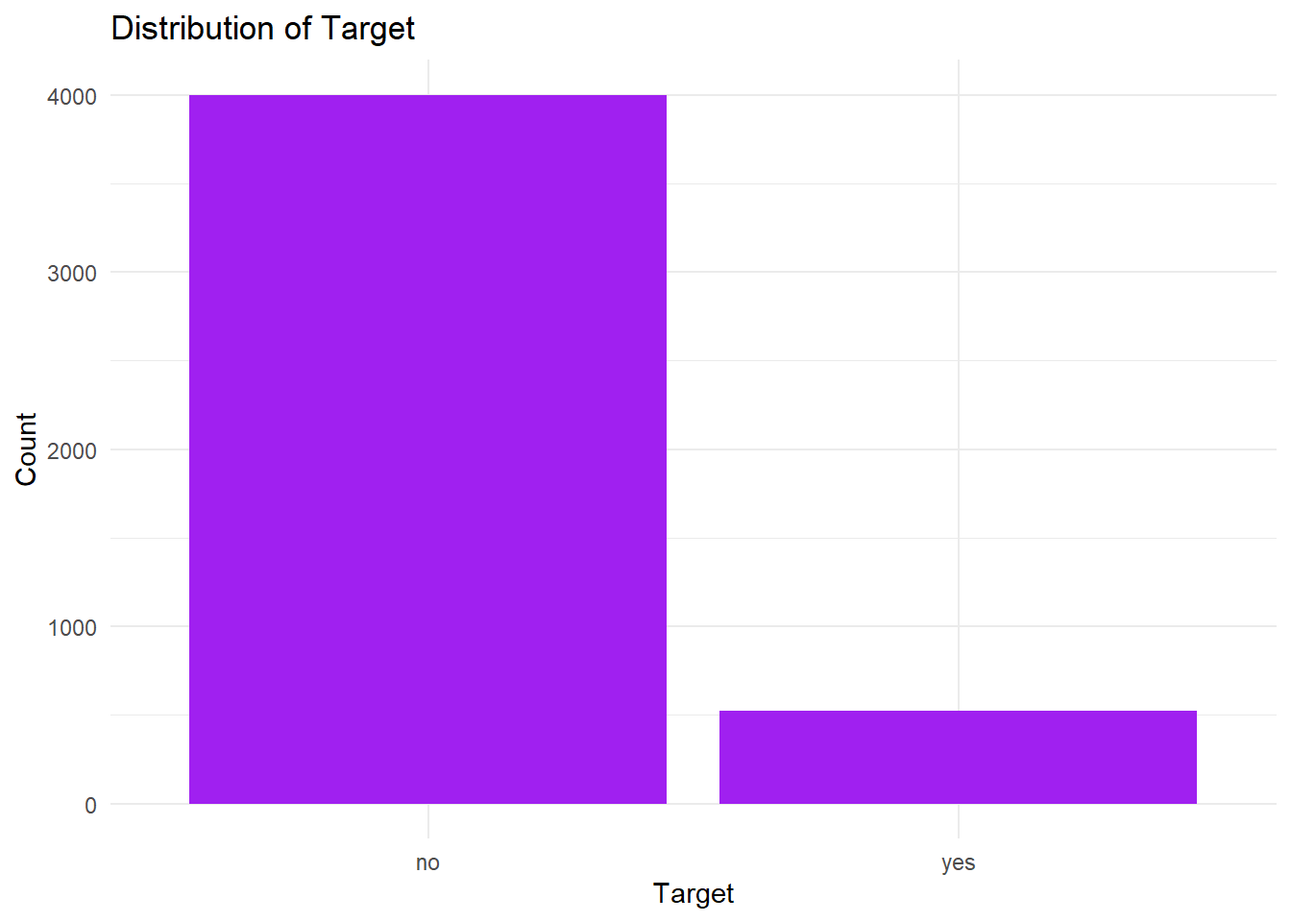
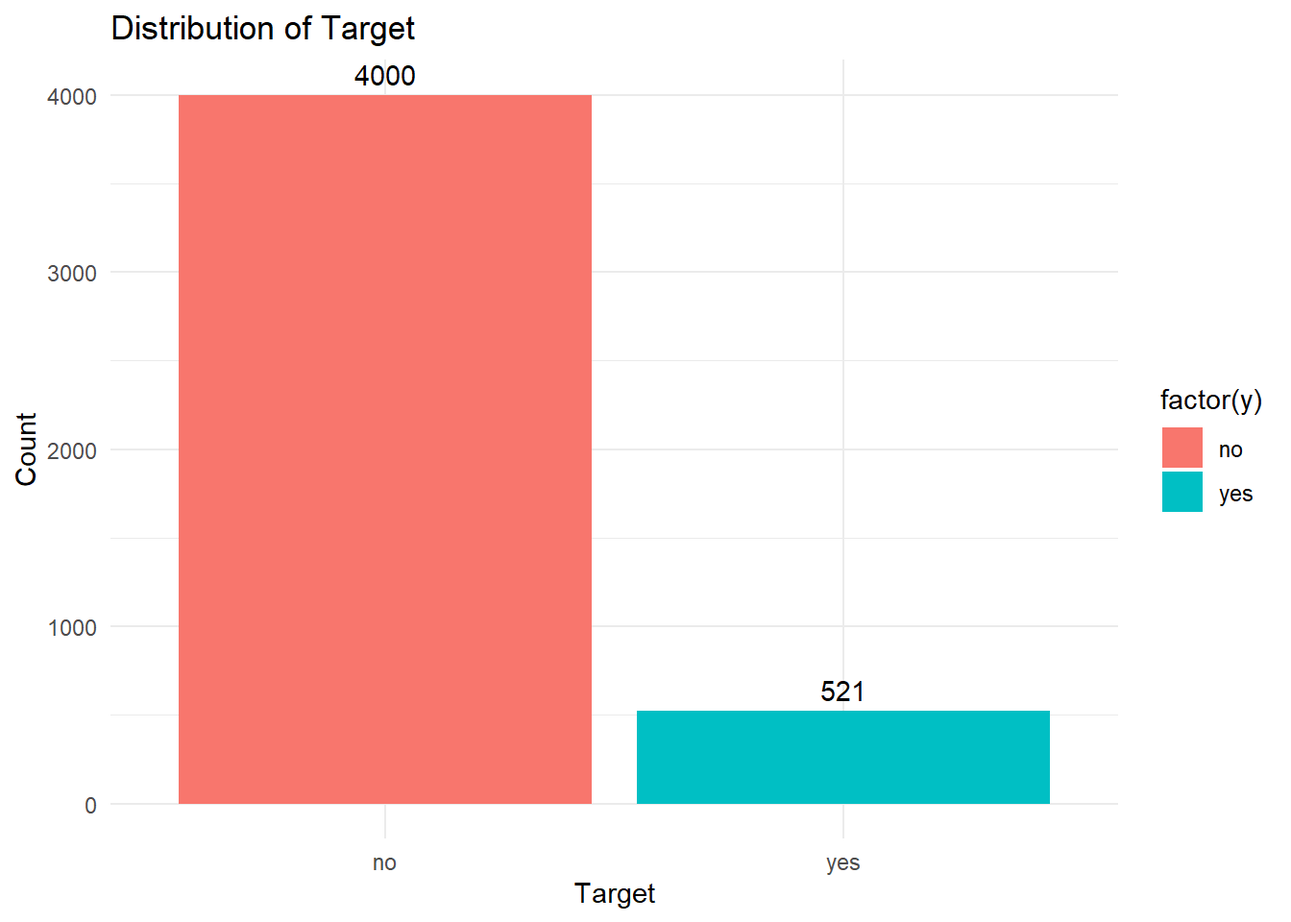
Updates

diff --git a/docs/portfolio/bank_marketing/index.html b/docs/portfolio/bank_marketing/index.html
@@ -310,10 +310,12 @@ gtag('config', 'G-LC5NNGZ782', { 'anonymize_ip': true});
 <span id="cb9-17"><a href="#cb9-17" aria-hidden="true" tabindex="-1"></a>data<span class="sc">$</span>y <span class="ot">&lt;-</span> <span class="fu">as.factor</span>(data<span class="sc">$</span>y)</span>
 <span id="cb9-18"><a href="#cb9-18" aria-hidden="true" tabindex="-1"></a></span>
 <span id="cb9-19"><a href="#cb9-19" aria-hidden="true" tabindex="-1"></a><span class="co"># Check the distribution of the outcome y</span></span>
-<span id="cb9-20"><a href="#cb9-20" aria-hidden="true" tabindex="-1"></a><span class="fu">ggplot</span>(data, <span class="fu">aes</span>(<span class="at">x =</span> <span class="fu">factor</span>(y))) <span class="sc">+</span></span>
-<span id="cb9-21"><a href="#cb9-21" aria-hidden="true" tabindex="-1"></a>  <span class="fu">geom_bar</span>(<span class="at">fill =</span> <span class="st">"purple"</span>) <span class="sc">+</span></span>
-<span id="cb9-22"><a href="#cb9-22" aria-hidden="true" tabindex="-1"></a>  <span class="fu">labs</span>(<span class="at">x =</span> <span class="st">"Target"</span>, <span class="at">y =</span> <span class="st">"Count"</span>, <span class="at">title =</span> <span class="st">"Distribution of Target"</span>) <span class="sc">+</span></span>
-<span id="cb9-23"><a href="#cb9-23" aria-hidden="true" tabindex="-1"></a>  <span class="fu">theme_minimal</span>()</span></code><button title="Copy to Clipboard" class="code-copy-button"><i class="bi"></i></button></pre></div>
+<span id="cb9-20"><a href="#cb9-20" aria-hidden="true" tabindex="-1"></a><span class="fu">ggplot</span>(data, <span class="fu">aes</span>(<span class="at">x =</span> <span class="fu">factor</span>(y), <span class="at">fill =</span> <span class="fu">factor</span>(y))) <span class="sc">+</span></span>
+<span id="cb9-21"><a href="#cb9-21" aria-hidden="true" tabindex="-1"></a>  <span class="fu">geom_bar</span>() <span class="sc">+</span></span>
+<span id="cb9-22"><a href="#cb9-22" aria-hidden="true" tabindex="-1"></a>  <span class="co">#geom_bar(fill = "purple") +</span></span>
+<span id="cb9-23"><a href="#cb9-23" aria-hidden="true" tabindex="-1"></a>  <span class="fu">geom_text</span>(<span class="at">stat =</span> <span class="st">"count"</span>, <span class="fu">aes</span>(<span class="at">label =</span> ..count..), <span class="at">vjust =</span> <span class="sc">-</span><span class="fl">0.5</span>)<span class="sc">+</span></span>
+<span id="cb9-24"><a href="#cb9-24" aria-hidden="true" tabindex="-1"></a>  <span class="fu">labs</span>(<span class="at">x =</span> <span class="st">"Target"</span>, <span class="at">y =</span> <span class="st">"Count"</span>, <span class="at">title =</span> <span class="st">"Distribution of Target"</span>) <span class="sc">+</span></span>
+<span id="cb9-25"><a href="#cb9-25" aria-hidden="true" tabindex="-1"></a>  <span class="fu">theme_minimal</span>()</span></code><button title="Copy to Clipboard" class="code-copy-button"><i class="bi"></i></button></pre></div>
 <div class="cell-output-display">
 <div>
 <figure class="figure">
@@ -557,29 +559,79 @@ Prediction   no  yes
 <span id="cb24-2"><a href="#cb24-2" aria-hidden="true" tabindex="-1"></a>cm_list<span class="sc">$</span>neural_network <span class="ot">&lt;-</span> <span class="fu">confusionMatrix</span>(data_test<span class="sc">$</span>y, <span class="fu">as.factor</span>(y_pred_nnet))</span></code><button title="Copy to Clipboard" class="code-copy-button"><i class="bi"></i></button></pre></div>
 </div>
 <div style="text-align: justify">
+<p>The accuracy is close to 89.61% which is not bad. Next we will try support vector classification method.</p>
+</div>
+<div class="cell">
+<div class="sourceCode cell-code" id="cb25"><pre class="sourceCode r code-with-copy"><code class="sourceCode r"><span id="cb25-1"><a href="#cb25-1" aria-hidden="true" tabindex="-1"></a><span class="co"># support vector classifier </span></span>
+<span id="cb25-2"><a href="#cb25-2" aria-hidden="true" tabindex="-1"></a>model_svc <span class="ot">&lt;-</span> <span class="fu">svm</span>(y <span class="sc">~</span> .,</span>
+<span id="cb25-3"><a href="#cb25-3" aria-hidden="true" tabindex="-1"></a>                 <span class="at">data =</span> data_train,</span>
+<span id="cb25-4"><a href="#cb25-4" aria-hidden="true" tabindex="-1"></a>                 <span class="co"># kernel = "linear",  # or "radial", "polynomial", "sigmoid"</span></span>
+<span id="cb25-5"><a href="#cb25-5" aria-hidden="true" tabindex="-1"></a>                 <span class="at">kernel =</span> <span class="st">"sigmoid"</span>,  <span class="co"># or "radial", "polynomial", "sigmoid"</span></span>
+<span id="cb25-6"><a href="#cb25-6" aria-hidden="true" tabindex="-1"></a>                 <span class="at">cost =</span> <span class="dv">1</span>,           <span class="co"># regularization parameter </span></span>
+<span id="cb25-7"><a href="#cb25-7" aria-hidden="true" tabindex="-1"></a>                 <span class="at">scale =</span> <span class="cn">FALSE</span>)</span>
+<span id="cb25-8"><a href="#cb25-8" aria-hidden="true" tabindex="-1"></a></span>
+<span id="cb25-9"><a href="#cb25-9" aria-hidden="true" tabindex="-1"></a><span class="co"># Predictions</span></span>
+<span id="cb25-10"><a href="#cb25-10" aria-hidden="true" tabindex="-1"></a>y_pred_svc <span class="ot">&lt;-</span> <span class="fu">predict</span>(model_svc,</span>
+<span id="cb25-11"><a href="#cb25-11" aria-hidden="true" tabindex="-1"></a>                        data_test)</span>
+<span id="cb25-12"><a href="#cb25-12" aria-hidden="true" tabindex="-1"></a></span>
+<span id="cb25-13"><a href="#cb25-13" aria-hidden="true" tabindex="-1"></a><span class="co"># Confusion Matrix</span></span>
+<span id="cb25-14"><a href="#cb25-14" aria-hidden="true" tabindex="-1"></a><span class="fu">confusionMatrix</span>(data_test<span class="sc">$</span>y, <span class="fu">as.factor</span>(y_pred_svc))</span></code><button title="Copy to Clipboard" class="code-copy-button"><i class="bi"></i></button></pre></div>
+<div class="cell-output cell-output-stdout">
+<pre><code>Confusion Matrix and Statistics
+
+          Reference
+Prediction   no  yes
+       no  1017  176
+       yes  147   17
+                                          
+               Accuracy : 0.762           
+                 95% CI : (0.7384, 0.7844)
+    No Information Rate : 0.8578          
+    P-Value [Acc &gt; NIR] : 1.0000          
+                                          
+                  Kappa : -0.0408         
+                                          
+ Mcnemar's Test P-Value : 0.1192          
+                                          
+            Sensitivity : 0.87371         
+            Specificity : 0.08808         
+         Pos Pred Value : 0.85247         
+         Neg Pred Value : 0.10366         
+             Prevalence : 0.85777         
+         Detection Rate : 0.74945         
+   Detection Prevalence : 0.87915         
+      Balanced Accuracy : 0.48090         
+                                          
+       'Positive' Class : no              
+                                          </code></pre>
+</div>
+<div class="sourceCode cell-code" id="cb27"><pre class="sourceCode r code-with-copy"><code class="sourceCode r"><span id="cb27-1"><a href="#cb27-1" aria-hidden="true" tabindex="-1"></a><span class="co"># Confusion Matrix data frame</span></span>
+<span id="cb27-2"><a href="#cb27-2" aria-hidden="true" tabindex="-1"></a>cm_list<span class="sc">$</span>smote_support_vector_classifier <span class="ot">&lt;-</span> <span class="fu">confusionMatrix</span>(data_test<span class="sc">$</span>y, <span class="fu">as.factor</span>(y_pred_svc))</span></code><button title="Copy to Clipboard" class="code-copy-button"><i class="bi"></i></button></pre></div>
+</div>
+<div style="text-align: justify">
 <p>The accuracy is close to 89.61% which is not bad. Next we will try some method to deal with imbalanced dataset using the SMOTE (Synthetic Minority Oversampling Technique) method which tries to balance the classes by oversampling from the minority classes. We will try to run all the models based on the over sampled data and compare them.</p>
 </div>
 <div class="cell">
-<div class="sourceCode cell-code" id="cb25"><pre class="sourceCode r code-with-copy"><code class="sourceCode r"><span id="cb25-1"><a href="#cb25-1" aria-hidden="true" tabindex="-1"></a><span class="co"># SMOTE method</span></span>
-<span id="cb25-2"><a href="#cb25-2" aria-hidden="true" tabindex="-1"></a><span class="fu">library</span>(ROSE)</span>
-<span id="cb25-3"><a href="#cb25-3" aria-hidden="true" tabindex="-1"></a></span>
-<span id="cb25-4"><a href="#cb25-4" aria-hidden="true" tabindex="-1"></a>data_train2 <span class="ot">&lt;-</span> <span class="fu">ovun.sample</span>(y <span class="sc">~</span> ., </span>
-<span id="cb25-5"><a href="#cb25-5" aria-hidden="true" tabindex="-1"></a>                           <span class="at">data =</span> data_train,</span>
-<span id="cb25-6"><a href="#cb25-6" aria-hidden="true" tabindex="-1"></a>                           <span class="at">method =</span> <span class="st">"over"</span>, </span>
-<span id="cb25-7"><a href="#cb25-7" aria-hidden="true" tabindex="-1"></a>                           <span class="at">N =</span> (<span class="fu">nrow</span>(data_train)<span class="sc">*</span><span class="dv">3</span>))<span class="sc">$</span>data</span></code><button title="Copy to Clipboard" class="code-copy-button"><i class="bi"></i></button></pre></div>
+<div class="sourceCode cell-code" id="cb28"><pre class="sourceCode r code-with-copy"><code class="sourceCode r"><span id="cb28-1"><a href="#cb28-1" aria-hidden="true" tabindex="-1"></a><span class="co"># SMOTE method</span></span>
+<span id="cb28-2"><a href="#cb28-2" aria-hidden="true" tabindex="-1"></a><span class="fu">library</span>(ROSE)</span>
+<span id="cb28-3"><a href="#cb28-3" aria-hidden="true" tabindex="-1"></a></span>
+<span id="cb28-4"><a href="#cb28-4" aria-hidden="true" tabindex="-1"></a>data_train2 <span class="ot">&lt;-</span> <span class="fu">ovun.sample</span>(y <span class="sc">~</span> ., </span>
+<span id="cb28-5"><a href="#cb28-5" aria-hidden="true" tabindex="-1"></a>                           <span class="at">data =</span> data_train,</span>
+<span id="cb28-6"><a href="#cb28-6" aria-hidden="true" tabindex="-1"></a>                           <span class="at">method =</span> <span class="st">"over"</span>, </span>
+<span id="cb28-7"><a href="#cb28-7" aria-hidden="true" tabindex="-1"></a>                           <span class="at">N =</span> (<span class="fu">nrow</span>(data_train)<span class="sc">*</span><span class="dv">3</span>))<span class="sc">$</span>data</span></code><button title="Copy to Clipboard" class="code-copy-button"><i class="bi"></i></button></pre></div>
 </div>
 <div class="cell">
-<div class="sourceCode cell-code" id="cb26"><pre class="sourceCode r code-with-copy"><code class="sourceCode r"><span id="cb26-1"><a href="#cb26-1" aria-hidden="true" tabindex="-1"></a><span class="co"># Logistic regression</span></span>
-<span id="cb26-2"><a href="#cb26-2" aria-hidden="true" tabindex="-1"></a>model2 <span class="ot">&lt;-</span> <span class="fu">glm</span>(y <span class="sc">~</span> ., <span class="at">data =</span> data_train2, <span class="at">family =</span> <span class="fu">binomial</span>())</span>
-<span id="cb26-3"><a href="#cb26-3" aria-hidden="true" tabindex="-1"></a></span>
-<span id="cb26-4"><a href="#cb26-4" aria-hidden="true" tabindex="-1"></a><span class="co"># Predicted probability</span></span>
-<span id="cb26-5"><a href="#cb26-5" aria-hidden="true" tabindex="-1"></a>y_pred_prob2 <span class="ot">&lt;-</span> <span class="fu">predict</span>(model2, data_test,<span class="st">"response"</span>)</span>
-<span id="cb26-6"><a href="#cb26-6" aria-hidden="true" tabindex="-1"></a></span>
-<span id="cb26-7"><a href="#cb26-7" aria-hidden="true" tabindex="-1"></a><span class="co"># Predicted class</span></span>
-<span id="cb26-8"><a href="#cb26-8" aria-hidden="true" tabindex="-1"></a>y_pred2 <span class="ot">&lt;-</span> <span class="fu">ifelse</span>(y_pred_prob2<span class="sc">&gt;</span><span class="fl">0.5</span>,<span class="st">"yes"</span>,<span class="st">"no"</span>)</span>
-<span id="cb26-9"><a href="#cb26-9" aria-hidden="true" tabindex="-1"></a></span>
-<span id="cb26-10"><a href="#cb26-10" aria-hidden="true" tabindex="-1"></a><span class="co"># Confusion matrix</span></span>
-<span id="cb26-11"><a href="#cb26-11" aria-hidden="true" tabindex="-1"></a><span class="fu">confusionMatrix</span>(data_test<span class="sc">$</span>y, <span class="fu">as.factor</span>(y_pred2))</span></code><button title="Copy to Clipboard" class="code-copy-button"><i class="bi"></i></button></pre></div>
+<div class="sourceCode cell-code" id="cb29"><pre class="sourceCode r code-with-copy"><code class="sourceCode r"><span id="cb29-1"><a href="#cb29-1" aria-hidden="true" tabindex="-1"></a><span class="co"># Logistic regression</span></span>
+<span id="cb29-2"><a href="#cb29-2" aria-hidden="true" tabindex="-1"></a>model2 <span class="ot">&lt;-</span> <span class="fu">glm</span>(y <span class="sc">~</span> ., <span class="at">data =</span> data_train2, <span class="at">family =</span> <span class="fu">binomial</span>())</span>
+<span id="cb29-3"><a href="#cb29-3" aria-hidden="true" tabindex="-1"></a></span>
+<span id="cb29-4"><a href="#cb29-4" aria-hidden="true" tabindex="-1"></a><span class="co"># Predicted probability</span></span>
+<span id="cb29-5"><a href="#cb29-5" aria-hidden="true" tabindex="-1"></a>y_pred_prob2 <span class="ot">&lt;-</span> <span class="fu">predict</span>(model2, data_test,<span class="st">"response"</span>)</span>
+<span id="cb29-6"><a href="#cb29-6" aria-hidden="true" tabindex="-1"></a></span>
+<span id="cb29-7"><a href="#cb29-7" aria-hidden="true" tabindex="-1"></a><span class="co"># Predicted class</span></span>
+<span id="cb29-8"><a href="#cb29-8" aria-hidden="true" tabindex="-1"></a>y_pred2 <span class="ot">&lt;-</span> <span class="fu">ifelse</span>(y_pred_prob2<span class="sc">&gt;</span><span class="fl">0.5</span>,<span class="st">"yes"</span>,<span class="st">"no"</span>)</span>
+<span id="cb29-9"><a href="#cb29-9" aria-hidden="true" tabindex="-1"></a></span>
+<span id="cb29-10"><a href="#cb29-10" aria-hidden="true" tabindex="-1"></a><span class="co"># Confusion matrix</span></span>
+<span id="cb29-11"><a href="#cb29-11" aria-hidden="true" tabindex="-1"></a><span class="fu">confusionMatrix</span>(data_test<span class="sc">$</span>y, <span class="fu">as.factor</span>(y_pred2))</span></code><button title="Copy to Clipboard" class="code-copy-button"><i class="bi"></i></button></pre></div>
 <div class="cell-output cell-output-stdout">
 <pre><code>Confusion Matrix and Statistics
 
@@ -609,18 +661,18 @@ Prediction  no yes
        'Positive' Class : no              
                                           </code></pre>
 </div>
-<div class="sourceCode cell-code" id="cb28"><pre class="sourceCode r code-with-copy"><code class="sourceCode r"><span id="cb28-1"><a href="#cb28-1" aria-hidden="true" tabindex="-1"></a><span class="co"># Confusion Matrix data frame</span></span>
-<span id="cb28-2"><a href="#cb28-2" aria-hidden="true" tabindex="-1"></a>cm_list<span class="sc">$</span>smote_logistic <span class="ot">&lt;-</span> <span class="fu">confusionMatrix</span>(data_test<span class="sc">$</span>y, <span class="fu">as.factor</span>(y_pred2))</span></code><button title="Copy to Clipboard" class="code-copy-button"><i class="bi"></i></button></pre></div>
+<div class="sourceCode cell-code" id="cb31"><pre class="sourceCode r code-with-copy"><code class="sourceCode r"><span id="cb31-1"><a href="#cb31-1" aria-hidden="true" tabindex="-1"></a><span class="co"># Confusion Matrix data frame</span></span>
+<span id="cb31-2"><a href="#cb31-2" aria-hidden="true" tabindex="-1"></a>cm_list<span class="sc">$</span>smote_logistic <span class="ot">&lt;-</span> <span class="fu">confusionMatrix</span>(data_test<span class="sc">$</span>y, <span class="fu">as.factor</span>(y_pred2))</span></code><button title="Copy to Clipboard" class="code-copy-button"><i class="bi"></i></button></pre></div>
 </div>
 <div class="cell">
-<div class="sourceCode cell-code" id="cb29"><pre class="sourceCode r code-with-copy"><code class="sourceCode r"><span id="cb29-1"><a href="#cb29-1" aria-hidden="true" tabindex="-1"></a><span class="co"># Naive Bayes</span></span>
-<span id="cb29-2"><a href="#cb29-2" aria-hidden="true" tabindex="-1"></a>model_nb2 <span class="ot">&lt;-</span> <span class="fu">naiveBayes</span>(y <span class="sc">~</span> ., <span class="at">data =</span> data_train2) </span>
-<span id="cb29-3"><a href="#cb29-3" aria-hidden="true" tabindex="-1"></a></span>
-<span id="cb29-4"><a href="#cb29-4" aria-hidden="true" tabindex="-1"></a><span class="co"># Predictions</span></span>
-<span id="cb29-5"><a href="#cb29-5" aria-hidden="true" tabindex="-1"></a>y_pred_nb2 <span class="ot">&lt;-</span> <span class="fu">predict</span>(model_nb2, <span class="at">newdata =</span> data_test)</span>
-<span id="cb29-6"><a href="#cb29-6" aria-hidden="true" tabindex="-1"></a></span>
-<span id="cb29-7"><a href="#cb29-7" aria-hidden="true" tabindex="-1"></a><span class="co"># Confusion matrix</span></span>
-<span id="cb29-8"><a href="#cb29-8" aria-hidden="true" tabindex="-1"></a><span class="fu">confusionMatrix</span>(data_test<span class="sc">$</span>y, y_pred_nb2)</span></code><button title="Copy to Clipboard" class="code-copy-button"><i class="bi"></i></button></pre></div>
+<div class="sourceCode cell-code" id="cb32"><pre class="sourceCode r code-with-copy"><code class="sourceCode r"><span id="cb32-1"><a href="#cb32-1" aria-hidden="true" tabindex="-1"></a><span class="co"># Naive Bayes</span></span>
+<span id="cb32-2"><a href="#cb32-2" aria-hidden="true" tabindex="-1"></a>model_nb2 <span class="ot">&lt;-</span> <span class="fu">naiveBayes</span>(y <span class="sc">~</span> ., <span class="at">data =</span> data_train2) </span>
+<span id="cb32-3"><a href="#cb32-3" aria-hidden="true" tabindex="-1"></a></span>
+<span id="cb32-4"><a href="#cb32-4" aria-hidden="true" tabindex="-1"></a><span class="co"># Predictions</span></span>
+<span id="cb32-5"><a href="#cb32-5" aria-hidden="true" tabindex="-1"></a>y_pred_nb2 <span class="ot">&lt;-</span> <span class="fu">predict</span>(model_nb2, <span class="at">newdata =</span> data_test)</span>
+<span id="cb32-6"><a href="#cb32-6" aria-hidden="true" tabindex="-1"></a></span>
+<span id="cb32-7"><a href="#cb32-7" aria-hidden="true" tabindex="-1"></a><span class="co"># Confusion matrix</span></span>
+<span id="cb32-8"><a href="#cb32-8" aria-hidden="true" tabindex="-1"></a><span class="fu">confusionMatrix</span>(data_test<span class="sc">$</span>y, y_pred_nb2)</span></code><button title="Copy to Clipboard" class="code-copy-button"><i class="bi"></i></button></pre></div>
 <div class="cell-output cell-output-stdout">
 <pre><code>Confusion Matrix and Statistics
 
@@ -650,22 +702,22 @@ Prediction  no yes
        'Positive' Class : no              
                                           </code></pre>
 </div>
-<div class="sourceCode cell-code" id="cb31"><pre class="sourceCode r code-with-copy"><code class="sourceCode r"><span id="cb31-1"><a href="#cb31-1" aria-hidden="true" tabindex="-1"></a><span class="co"># Confusion Matrix data frame</span></span>
-<span id="cb31-2"><a href="#cb31-2" aria-hidden="true" tabindex="-1"></a>cm_list<span class="sc">$</span>smote_naive_bayes <span class="ot">&lt;-</span> <span class="fu">confusionMatrix</span>(data_test<span class="sc">$</span>y, y_pred_nb2)</span></code><button title="Copy to Clipboard" class="code-copy-button"><i class="bi"></i></button></pre></div>
+<div class="sourceCode cell-code" id="cb34"><pre class="sourceCode r code-with-copy"><code class="sourceCode r"><span id="cb34-1"><a href="#cb34-1" aria-hidden="true" tabindex="-1"></a><span class="co"># Confusion Matrix data frame</span></span>
+<span id="cb34-2"><a href="#cb34-2" aria-hidden="true" tabindex="-1"></a>cm_list<span class="sc">$</span>smote_naive_bayes <span class="ot">&lt;-</span> <span class="fu">confusionMatrix</span>(data_test<span class="sc">$</span>y, y_pred_nb2)</span></code><button title="Copy to Clipboard" class="code-copy-button"><i class="bi"></i></button></pre></div>
 </div>
 <div class="cell">
-<div class="sourceCode cell-code" id="cb32"><pre class="sourceCode r code-with-copy"><code class="sourceCode r"><span id="cb32-1"><a href="#cb32-1" aria-hidden="true" tabindex="-1"></a><span class="co"># Random forest</span></span>
-<span id="cb32-2"><a href="#cb32-2" aria-hidden="true" tabindex="-1"></a>model_rf2 <span class="ot">&lt;-</span> <span class="fu">randomForest</span>(y <span class="sc">~</span> ., </span>
-<span id="cb32-3"><a href="#cb32-3" aria-hidden="true" tabindex="-1"></a>                         <span class="at">data =</span> data_train, </span>
-<span id="cb32-4"><a href="#cb32-4" aria-hidden="true" tabindex="-1"></a>                         <span class="at">ntree =</span> <span class="dv">500</span>, </span>
-<span id="cb32-5"><a href="#cb32-5" aria-hidden="true" tabindex="-1"></a>                         <span class="at">mtry =</span> <span class="dv">2</span>, </span>
-<span id="cb32-6"><a href="#cb32-6" aria-hidden="true" tabindex="-1"></a>                         <span class="at">importance =</span> <span class="cn">TRUE</span>)</span>
-<span id="cb32-7"><a href="#cb32-7" aria-hidden="true" tabindex="-1"></a></span>
-<span id="cb32-8"><a href="#cb32-8" aria-hidden="true" tabindex="-1"></a><span class="co"># Predictions</span></span>
-<span id="cb32-9"><a href="#cb32-9" aria-hidden="true" tabindex="-1"></a>y_pred_rf2 <span class="ot">&lt;-</span> <span class="fu">predict</span>(model_rf2, data_test)</span>
-<span id="cb32-10"><a href="#cb32-10" aria-hidden="true" tabindex="-1"></a></span>
-<span id="cb32-11"><a href="#cb32-11" aria-hidden="true" tabindex="-1"></a><span class="co"># Confusion Matrix</span></span>
-<span id="cb32-12"><a href="#cb32-12" aria-hidden="true" tabindex="-1"></a><span class="fu">confusionMatrix</span>(data_test<span class="sc">$</span>y, y_pred_rf2)</span></code><button title="Copy to Clipboard" class="code-copy-button"><i class="bi"></i></button></pre></div>
+<div class="sourceCode cell-code" id="cb35"><pre class="sourceCode r code-with-copy"><code class="sourceCode r"><span id="cb35-1"><a href="#cb35-1" aria-hidden="true" tabindex="-1"></a><span class="co"># Random forest</span></span>
+<span id="cb35-2"><a href="#cb35-2" aria-hidden="true" tabindex="-1"></a>model_rf2 <span class="ot">&lt;-</span> <span class="fu">randomForest</span>(y <span class="sc">~</span> ., </span>
+<span id="cb35-3"><a href="#cb35-3" aria-hidden="true" tabindex="-1"></a>                         <span class="at">data =</span> data_train, </span>
+<span id="cb35-4"><a href="#cb35-4" aria-hidden="true" tabindex="-1"></a>                         <span class="at">ntree =</span> <span class="dv">500</span>, </span>
+<span id="cb35-5"><a href="#cb35-5" aria-hidden="true" tabindex="-1"></a>                         <span class="at">mtry =</span> <span class="dv">2</span>, </span>
+<span id="cb35-6"><a href="#cb35-6" aria-hidden="true" tabindex="-1"></a>                         <span class="at">importance =</span> <span class="cn">TRUE</span>)</span>
+<span id="cb35-7"><a href="#cb35-7" aria-hidden="true" tabindex="-1"></a></span>
+<span id="cb35-8"><a href="#cb35-8" aria-hidden="true" tabindex="-1"></a><span class="co"># Predictions</span></span>
+<span id="cb35-9"><a href="#cb35-9" aria-hidden="true" tabindex="-1"></a>y_pred_rf2 <span class="ot">&lt;-</span> <span class="fu">predict</span>(model_rf2, data_test)</span>
+<span id="cb35-10"><a href="#cb35-10" aria-hidden="true" tabindex="-1"></a></span>
+<span id="cb35-11"><a href="#cb35-11" aria-hidden="true" tabindex="-1"></a><span class="co"># Confusion Matrix</span></span>
+<span id="cb35-12"><a href="#cb35-12" aria-hidden="true" tabindex="-1"></a><span class="fu">confusionMatrix</span>(data_test<span class="sc">$</span>y, y_pred_rf2)</span></code><button title="Copy to Clipboard" class="code-copy-button"><i class="bi"></i></button></pre></div>
 <div class="cell-output cell-output-stdout">
 <pre><code>Confusion Matrix and Statistics
 
@@ -695,16 +747,16 @@ Prediction   no  yes
        'Positive' Class : no             
                                          </code></pre>
 </div>
-<div class="sourceCode cell-code" id="cb34"><pre class="sourceCode r code-with-copy"><code class="sourceCode r"><span id="cb34-1"><a href="#cb34-1" aria-hidden="true" tabindex="-1"></a><span class="co"># Confusion Matrix data frame</span></span>
-<span id="cb34-2"><a href="#cb34-2" aria-hidden="true" tabindex="-1"></a>cm_list<span class="sc">$</span>smote_random_forest <span class="ot">&lt;-</span> <span class="fu">confusionMatrix</span>(data_test<span class="sc">$</span>y, y_pred_rf2)</span></code><button title="Copy to Clipboard" class="code-copy-button"><i class="bi"></i></button></pre></div>
+<div class="sourceCode cell-code" id="cb37"><pre class="sourceCode r code-with-copy"><code class="sourceCode r"><span id="cb37-1"><a href="#cb37-1" aria-hidden="true" tabindex="-1"></a><span class="co"># Confusion Matrix data frame</span></span>
+<span id="cb37-2"><a href="#cb37-2" aria-hidden="true" tabindex="-1"></a>cm_list<span class="sc">$</span>smote_random_forest <span class="ot">&lt;-</span> <span class="fu">confusionMatrix</span>(data_test<span class="sc">$</span>y, y_pred_rf2)</span></code><button title="Copy to Clipboard" class="code-copy-button"><i class="bi"></i></button></pre></div>
 </div>
 <div class="cell">
-<div class="sourceCode cell-code" id="cb35"><pre class="sourceCode r code-with-copy"><code class="sourceCode r"><span id="cb35-1"><a href="#cb35-1" aria-hidden="true" tabindex="-1"></a><span class="co"># Neural Networks</span></span>
-<span id="cb35-2"><a href="#cb35-2" aria-hidden="true" tabindex="-1"></a>model_nnet2 <span class="ot">&lt;-</span> <span class="fu">nnet</span>(y <span class="sc">~</span> ., </span>
-<span id="cb35-3"><a href="#cb35-3" aria-hidden="true" tabindex="-1"></a>              <span class="at">data =</span> data_train2, </span>
-<span id="cb35-4"><a href="#cb35-4" aria-hidden="true" tabindex="-1"></a>              <span class="at">size =</span> <span class="dv">5</span>, </span>
-<span id="cb35-5"><a href="#cb35-5" aria-hidden="true" tabindex="-1"></a>              <span class="at">decay =</span> <span class="fl">0.01</span>, </span>
-<span id="cb35-6"><a href="#cb35-6" aria-hidden="true" tabindex="-1"></a>              <span class="at">maxit =</span> <span class="dv">200</span>)</span></code><button title="Copy to Clipboard" class="code-copy-button"><i class="bi"></i></button></pre></div>
+<div class="sourceCode cell-code" id="cb38"><pre class="sourceCode r code-with-copy"><code class="sourceCode r"><span id="cb38-1"><a href="#cb38-1" aria-hidden="true" tabindex="-1"></a><span class="co"># Neural Networks</span></span>
+<span id="cb38-2"><a href="#cb38-2" aria-hidden="true" tabindex="-1"></a>model_nnet2 <span class="ot">&lt;-</span> <span class="fu">nnet</span>(y <span class="sc">~</span> ., </span>
+<span id="cb38-3"><a href="#cb38-3" aria-hidden="true" tabindex="-1"></a>              <span class="at">data =</span> data_train2, </span>
+<span id="cb38-4"><a href="#cb38-4" aria-hidden="true" tabindex="-1"></a>              <span class="at">size =</span> <span class="dv">5</span>, </span>
+<span id="cb38-5"><a href="#cb38-5" aria-hidden="true" tabindex="-1"></a>              <span class="at">decay =</span> <span class="fl">0.01</span>, </span>
+<span id="cb38-6"><a href="#cb38-6" aria-hidden="true" tabindex="-1"></a>              <span class="at">maxit =</span> <span class="dv">200</span>)</span></code><button title="Copy to Clipboard" class="code-copy-button"><i class="bi"></i></button></pre></div>
 <div class="cell-output cell-output-stdout">
 <pre><code># weights:  151
 initial  value 6672.439994 
@@ -731,13 +783,13 @@ iter 200 value 3658.453928
 final  value 3658.453928 
 stopped after 200 iterations</code></pre>
 </div>
-<div class="sourceCode cell-code" id="cb37"><pre class="sourceCode r code-with-copy"><code class="sourceCode r"><span id="cb37-1"><a href="#cb37-1" aria-hidden="true" tabindex="-1"></a><span class="co"># Predictions</span></span>
-<span id="cb37-2"><a href="#cb37-2" aria-hidden="true" tabindex="-1"></a>y_pred_nnet2 <span class="ot">&lt;-</span> <span class="fu">predict</span>(model_nnet2,</span>
-<span id="cb37-3"><a href="#cb37-3" aria-hidden="true" tabindex="-1"></a>                        data_test, </span>
-<span id="cb37-4"><a href="#cb37-4" aria-hidden="true" tabindex="-1"></a>                        <span class="at">type =</span> <span class="st">"class"</span>)</span>
-<span id="cb37-5"><a href="#cb37-5" aria-hidden="true" tabindex="-1"></a></span>
-<span id="cb37-6"><a href="#cb37-6" aria-hidden="true" tabindex="-1"></a><span class="co"># Confusion Matrix</span></span>
-<span id="cb37-7"><a href="#cb37-7" aria-hidden="true" tabindex="-1"></a><span class="fu">confusionMatrix</span>(data_test<span class="sc">$</span>y, <span class="fu">as.factor</span>(y_pred_nnet2))</span></code><button title="Copy to Clipboard" class="code-copy-button"><i class="bi"></i></button></pre></div>
+<div class="sourceCode cell-code" id="cb40"><pre class="sourceCode r code-with-copy"><code class="sourceCode r"><span id="cb40-1"><a href="#cb40-1" aria-hidden="true" tabindex="-1"></a><span class="co"># Predictions</span></span>
+<span id="cb40-2"><a href="#cb40-2" aria-hidden="true" tabindex="-1"></a>y_pred_nnet2 <span class="ot">&lt;-</span> <span class="fu">predict</span>(model_nnet2,</span>
+<span id="cb40-3"><a href="#cb40-3" aria-hidden="true" tabindex="-1"></a>                        data_test, </span>
+<span id="cb40-4"><a href="#cb40-4" aria-hidden="true" tabindex="-1"></a>                        <span class="at">type =</span> <span class="st">"class"</span>)</span>
+<span id="cb40-5"><a href="#cb40-5" aria-hidden="true" tabindex="-1"></a></span>
+<span id="cb40-6"><a href="#cb40-6" aria-hidden="true" tabindex="-1"></a><span class="co"># Confusion Matrix</span></span>
+<span id="cb40-7"><a href="#cb40-7" aria-hidden="true" tabindex="-1"></a><span class="fu">confusionMatrix</span>(data_test<span class="sc">$</span>y, <span class="fu">as.factor</span>(y_pred_nnet2))</span></code><button title="Copy to Clipboard" class="code-copy-button"><i class="bi"></i></button></pre></div>
 <div class="cell-output cell-output-stdout">
 <pre><code>Confusion Matrix and Statistics
 
@@ -767,35 +819,83 @@ Prediction  no yes
        'Positive' Class : no              
                                           </code></pre>
 </div>
-<div class="sourceCode cell-code" id="cb39"><pre class="sourceCode r code-with-copy"><code class="sourceCode r"><span id="cb39-1"><a href="#cb39-1" aria-hidden="true" tabindex="-1"></a><span class="co"># Confusion Matrix data frame</span></span>
-<span id="cb39-2"><a href="#cb39-2" aria-hidden="true" tabindex="-1"></a>cm_list<span class="sc">$</span>smote_neural_network <span class="ot">&lt;-</span> <span class="fu">confusionMatrix</span>(data_test<span class="sc">$</span>y, <span class="fu">as.factor</span>(y_pred_nnet2))</span></code><button title="Copy to Clipboard" class="code-copy-button"><i class="bi"></i></button></pre></div>
+<div class="sourceCode cell-code" id="cb42"><pre class="sourceCode r code-with-copy"><code class="sourceCode r"><span id="cb42-1"><a href="#cb42-1" aria-hidden="true" tabindex="-1"></a><span class="co"># Confusion Matrix data frame</span></span>
+<span id="cb42-2"><a href="#cb42-2" aria-hidden="true" tabindex="-1"></a>cm_list<span class="sc">$</span>smote_neural_network <span class="ot">&lt;-</span> <span class="fu">confusionMatrix</span>(data_test<span class="sc">$</span>y, <span class="fu">as.factor</span>(y_pred_nnet2))</span></code><button title="Copy to Clipboard" class="code-copy-button"><i class="bi"></i></button></pre></div>
+</div>
+<div class="cell">
+<div class="sourceCode cell-code" id="cb43"><pre class="sourceCode r code-with-copy"><code class="sourceCode r"><span id="cb43-1"><a href="#cb43-1" aria-hidden="true" tabindex="-1"></a><span class="co"># support vector classifier </span></span>
+<span id="cb43-2"><a href="#cb43-2" aria-hidden="true" tabindex="-1"></a>model_svc2 <span class="ot">&lt;-</span> <span class="fu">svm</span>(y <span class="sc">~</span> .,</span>
+<span id="cb43-3"><a href="#cb43-3" aria-hidden="true" tabindex="-1"></a>                  <span class="at">data =</span> data_train2,</span>
+<span id="cb43-4"><a href="#cb43-4" aria-hidden="true" tabindex="-1"></a>                  <span class="at">kernel =</span> <span class="st">"sigmoid"</span>,  <span class="co"># or "radial", "polynomial", "sigmoid" </span></span>
+<span id="cb43-5"><a href="#cb43-5" aria-hidden="true" tabindex="-1"></a>                  <span class="at">cost =</span> <span class="dv">1</span>,           <span class="co"># regularization parameter </span></span>
+<span id="cb43-6"><a href="#cb43-6" aria-hidden="true" tabindex="-1"></a>                  <span class="at">scale =</span> <span class="cn">TRUE</span>)</span>
+<span id="cb43-7"><a href="#cb43-7" aria-hidden="true" tabindex="-1"></a></span>
+<span id="cb43-8"><a href="#cb43-8" aria-hidden="true" tabindex="-1"></a><span class="co"># Predictions</span></span>
+<span id="cb43-9"><a href="#cb43-9" aria-hidden="true" tabindex="-1"></a>y_pred_svc2 <span class="ot">&lt;-</span> <span class="fu">predict</span>(model_svc2,</span>
+<span id="cb43-10"><a href="#cb43-10" aria-hidden="true" tabindex="-1"></a>                       data_test)</span>
+<span id="cb43-11"><a href="#cb43-11" aria-hidden="true" tabindex="-1"></a></span>
+<span id="cb43-12"><a href="#cb43-12" aria-hidden="true" tabindex="-1"></a><span class="co"># Confusion Matrix</span></span>
+<span id="cb43-13"><a href="#cb43-13" aria-hidden="true" tabindex="-1"></a><span class="fu">confusionMatrix</span>(data_test<span class="sc">$</span>y, <span class="fu">as.factor</span>(y_pred_svc2))</span></code><button title="Copy to Clipboard" class="code-copy-button"><i class="bi"></i></button></pre></div>
+<div class="cell-output cell-output-stdout">
+<pre><code>Confusion Matrix and Statistics
+
+          Reference
+Prediction  no yes
+       no  629 564
+       yes  17 147
+                                         
+               Accuracy : 0.5718         
+                 95% CI : (0.545, 0.5984)
+    No Information Rate : 0.5239         
+    P-Value [Acc &gt; NIR] : 0.0002213      
+                                         
+                  Kappa : 0.1737         
+                                         
+ Mcnemar's Test P-Value : &lt; 2.2e-16      
+                                         
+            Sensitivity : 0.9737         
+            Specificity : 0.2068         
+         Pos Pred Value : 0.5272         
+         Neg Pred Value : 0.8963         
+             Prevalence : 0.4761         
+         Detection Rate : 0.4635         
+   Detection Prevalence : 0.8791         
+      Balanced Accuracy : 0.5902         
+                                         
+       'Positive' Class : no             
+                                         </code></pre>
+</div>
+<div class="sourceCode cell-code" id="cb45"><pre class="sourceCode r code-with-copy"><code class="sourceCode r"><span id="cb45-1"><a href="#cb45-1" aria-hidden="true" tabindex="-1"></a><span class="co"># Confusion Matrix data frame</span></span>
+<span id="cb45-2"><a href="#cb45-2" aria-hidden="true" tabindex="-1"></a>cm_list<span class="sc">$</span>support_vector_classifier <span class="ot">&lt;-</span> <span class="fu">confusionMatrix</span>(data_test<span class="sc">$</span>y, <span class="fu">as.factor</span>(y_pred_svc2))</span></code><button title="Copy to Clipboard" class="code-copy-button"><i class="bi"></i></button></pre></div>
 </div>
 <div style="text-align: justify">
 <p>The comparison of all the models is as follows</p>
 </div>
 <div class="cell">
-<div class="sourceCode cell-code" id="cb40"><pre class="sourceCode r code-with-copy"><code class="sourceCode r"><span id="cb40-1"><a href="#cb40-1" aria-hidden="true" tabindex="-1"></a><span class="co"># Extract multiple metrics into one table</span></span>
-<span id="cb40-2"><a href="#cb40-2" aria-hidden="true" tabindex="-1"></a></span>
-<span id="cb40-3"><a href="#cb40-3" aria-hidden="true" tabindex="-1"></a>results_df <span class="ot">&lt;-</span> <span class="fu">data.frame</span>(</span>
-<span id="cb40-4"><a href="#cb40-4" aria-hidden="true" tabindex="-1"></a>  <span class="at">Model =</span> <span class="fu">names</span>(cm_list),</span>
-<span id="cb40-5"><a href="#cb40-5" aria-hidden="true" tabindex="-1"></a>  <span class="at">Accuracy     =</span> <span class="fu">sapply</span>(cm_list, <span class="cf">function</span>(l) l<span class="sc">$</span>overall[<span class="st">"Accuracy"</span>]),</span>
-<span id="cb40-6"><a href="#cb40-6" aria-hidden="true" tabindex="-1"></a>  <span class="at">Sensitivity  =</span> <span class="fu">sapply</span>(cm_list, <span class="cf">function</span>(l) l<span class="sc">$</span>byClass[<span class="st">"Sensitivity"</span>]),</span>
-<span id="cb40-7"><a href="#cb40-7" aria-hidden="true" tabindex="-1"></a>  <span class="at">Specificity  =</span> <span class="fu">sapply</span>(cm_list, <span class="cf">function</span>(l) l<span class="sc">$</span>byClass[<span class="st">"Specificity"</span>])</span>
-<span id="cb40-8"><a href="#cb40-8" aria-hidden="true" tabindex="-1"></a>)</span>
-<span id="cb40-9"><a href="#cb40-9" aria-hidden="true" tabindex="-1"></a></span>
-<span id="cb40-10"><a href="#cb40-10" aria-hidden="true" tabindex="-1"></a><span class="fu">rownames</span>(results_df) <span class="ot">&lt;-</span> <span class="cn">NULL</span></span>
-<span id="cb40-11"><a href="#cb40-11" aria-hidden="true" tabindex="-1"></a>results_df <span class="ot">&lt;-</span> results_df <span class="sc">%&gt;%</span> <span class="fu">arrange</span>(<span class="fu">desc</span>(Accuracy))</span>
-<span id="cb40-12"><a href="#cb40-12" aria-hidden="true" tabindex="-1"></a>results_df</span></code><button title="Copy to Clipboard" class="code-copy-button"><i class="bi"></i></button></pre></div>
+<div class="sourceCode cell-code" id="cb46"><pre class="sourceCode r code-with-copy"><code class="sourceCode r"><span id="cb46-1"><a href="#cb46-1" aria-hidden="true" tabindex="-1"></a><span class="co"># Extract multiple metrics into one table</span></span>
+<span id="cb46-2"><a href="#cb46-2" aria-hidden="true" tabindex="-1"></a></span>
+<span id="cb46-3"><a href="#cb46-3" aria-hidden="true" tabindex="-1"></a>results_df <span class="ot">&lt;-</span> <span class="fu">data.frame</span>(</span>
+<span id="cb46-4"><a href="#cb46-4" aria-hidden="true" tabindex="-1"></a>  <span class="at">Model =</span> <span class="fu">names</span>(cm_list),</span>
+<span id="cb46-5"><a href="#cb46-5" aria-hidden="true" tabindex="-1"></a>  <span class="at">Accuracy     =</span> <span class="fu">sapply</span>(cm_list, <span class="cf">function</span>(l) l<span class="sc">$</span>overall[<span class="st">"Accuracy"</span>]),</span>
+<span id="cb46-6"><a href="#cb46-6" aria-hidden="true" tabindex="-1"></a>  <span class="at">Sensitivity  =</span> <span class="fu">sapply</span>(cm_list, <span class="cf">function</span>(l) l<span class="sc">$</span>byClass[<span class="st">"Sensitivity"</span>]),</span>
+<span id="cb46-7"><a href="#cb46-7" aria-hidden="true" tabindex="-1"></a>  <span class="at">Specificity  =</span> <span class="fu">sapply</span>(cm_list, <span class="cf">function</span>(l) l<span class="sc">$</span>byClass[<span class="st">"Specificity"</span>])</span>
+<span id="cb46-8"><a href="#cb46-8" aria-hidden="true" tabindex="-1"></a>)</span>
+<span id="cb46-9"><a href="#cb46-9" aria-hidden="true" tabindex="-1"></a></span>
+<span id="cb46-10"><a href="#cb46-10" aria-hidden="true" tabindex="-1"></a><span class="fu">rownames</span>(results_df) <span class="ot">&lt;-</span> <span class="cn">NULL</span></span>
+<span id="cb46-11"><a href="#cb46-11" aria-hidden="true" tabindex="-1"></a>results_df <span class="ot">&lt;-</span> results_df <span class="sc">%&gt;%</span> <span class="fu">arrange</span>(<span class="fu">desc</span>(Accuracy))</span>
+<span id="cb46-12"><a href="#cb46-12" aria-hidden="true" tabindex="-1"></a>results_df</span></code><button title="Copy to Clipboard" class="code-copy-button"><i class="bi"></i></button></pre></div>
 <div class="cell-output cell-output-stdout">
-<pre><code>                 Model  Accuracy Sensitivity Specificity
-1       neural_network 0.8960943   0.9161392   0.6236559
-2             logistic 0.8916728   0.9085937   0.6103896
-3        random_forest 0.8820929   0.8898113   0.5625000
-4  smote_random_forest 0.8813559   0.8891403   0.5483871
-5          naive_bayes 0.8673545   0.9281488   0.4540230
-6 smote_neural_network 0.6963891   0.9699158   0.2642586
-7    smote_naive_bayes 0.6897568   0.9695864   0.2598131
-8       smote_logistic 0.6617539   0.9816273   0.2521008</code></pre>
+<pre><code>                             Model  Accuracy Sensitivity Specificity
+1                   neural_network 0.8960943   0.9161392   0.6236559
+2                         logistic 0.8916728   0.9085937   0.6103896
+3                    random_forest 0.8820929   0.8898113   0.5625000
+4              smote_random_forest 0.8813559   0.8891403   0.5483871
+5                      naive_bayes 0.8673545   0.9281488   0.4540230
+6  smote_support_vector_classifier 0.7619749   0.8737113   0.0880829
+7             smote_neural_network 0.6963891   0.9699158   0.2642586
+8                smote_naive_bayes 0.6897568   0.9695864   0.2598131
+9                   smote_logistic 0.6617539   0.9816273   0.2521008
+10       support_vector_classifier 0.5718497   0.9736842   0.2067511</code></pre>
 </div>
 </div>
 <div style="text-align: justify">

diff --git a/docs/portfolio.html b/docs/portfolio.html
@@ -225,7 +225,7 @@ window.Quarto = {
 
 <div class="quarto-listing quarto-listing-container-grid" id="listing-listing">
 <div class="list grid quarto-listing-cols-3">
-<div class="g-col-1" data-index="0" data-categories="QUklMkNhbmFseXNpcyUyQ1I=" data-listing-date-sort="1750136400000" data-listing-file-modified-sort="1754930834767" data-listing-date-modified-sort="NaN" data-listing-reading-time-sort="7" data-listing-word-count-sort="1351">
+<div class="g-col-1" data-index="0" data-categories="QUklMkNhbmFseXNpcyUyQ1I=" data-listing-date-sort="1750136400000" data-listing-file-modified-sort="1755010955337" data-listing-date-modified-sort="NaN" data-listing-reading-time-sort="9" data-listing-word-count-sort="1714">
 <a href="./portfolio/bank_marketing/index.html" class="quarto-grid-link">
 <div class="quarto-grid-item card h-100 card-left">
 <p class="card-img-top">
